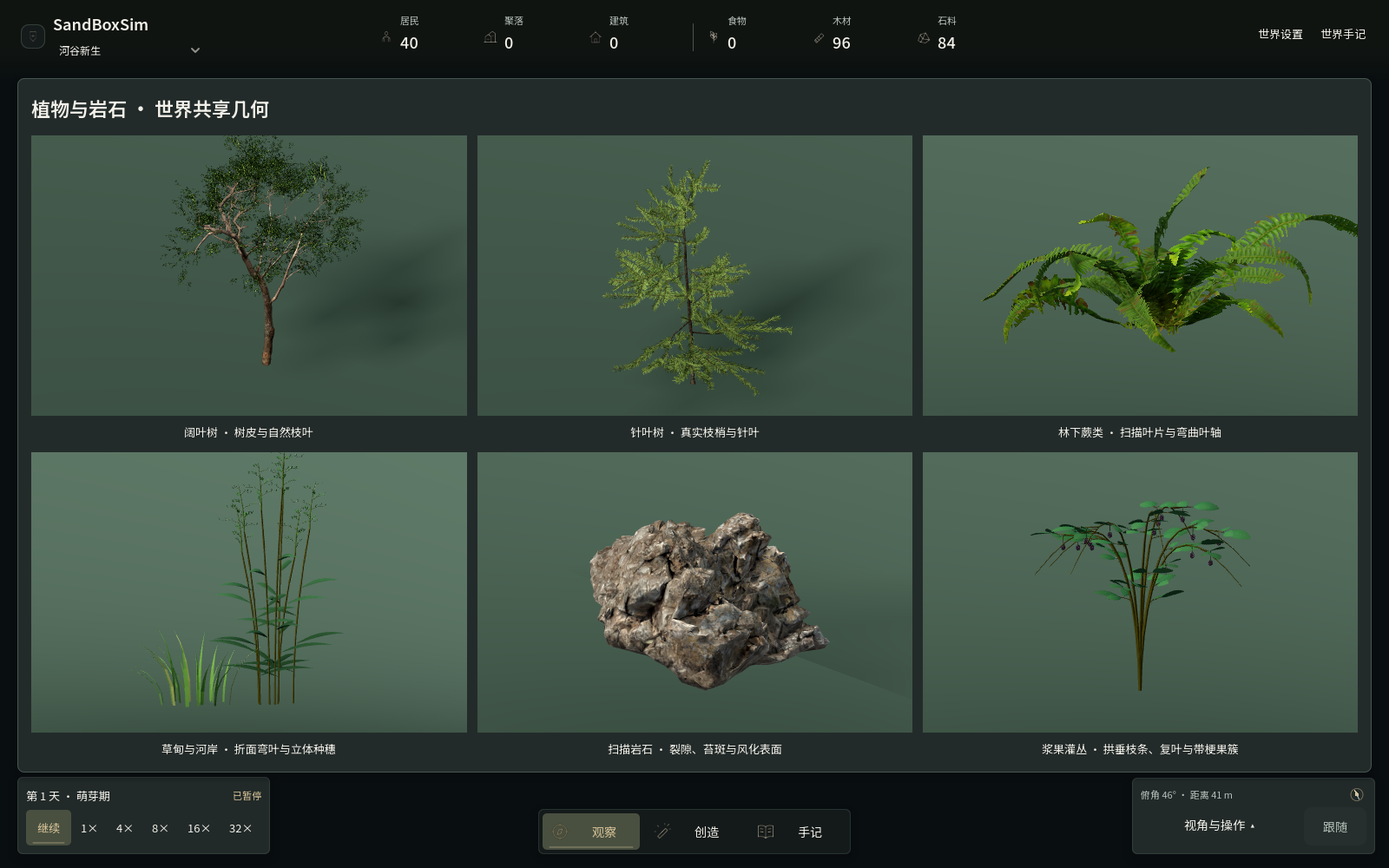
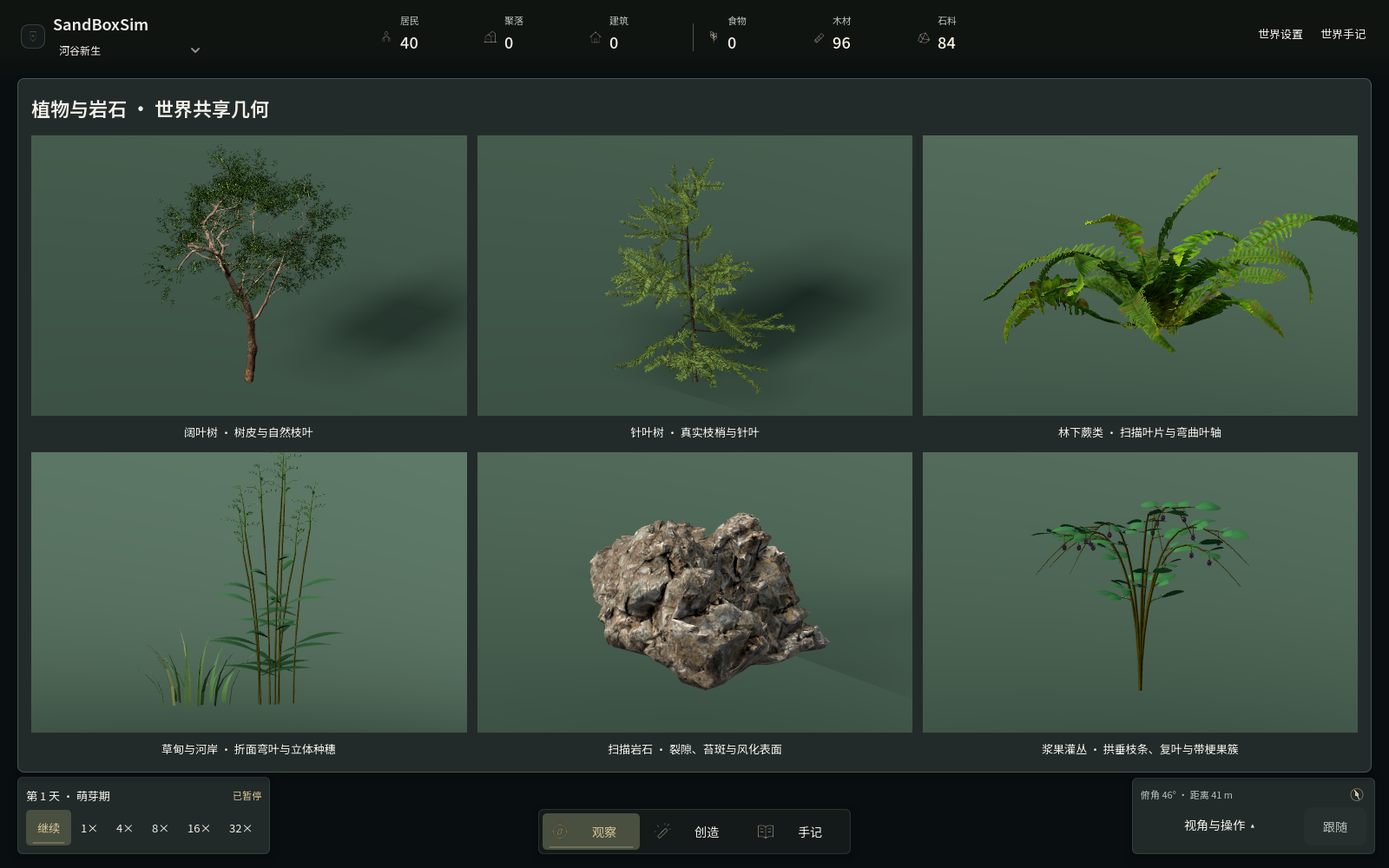
Align tree roots, ground stone clusters and target visible resources

diff --git a/src/SandBoxSim.Godot/WorldView3D.cs b/src/SandBoxSim.Godot/WorldView3D.cs
@@ -450,7 +450,7 @@ public partial class WorldView3D : MapView
         var quality=new Dictionary<string,object> { ["worldPresentationEnabled"]=WorldPresentationEnabled,["shadowMode"]=_sunlight.DirectionalShadowMode.ToString(),
             ["shadowDistance"]=_sunlight.DirectionalShadowMaxDistance,["shadowBias"]=_sunlight.ShadowBias,
             ["shadowNormalBias"]=_sunlight.ShadowNormalBias,["msaa"]=_viewport.Msaa3D.ToString(),
-            ["landscapeSurface"]="coverage-mosaic-v6",["habitatDetail"]="responsive-understory-v12",["vegetationSurface"]="engine-faced-v2",
+            ["landscapeSurface"]="coverage-mosaic-v6",["sceneryContact"]="rooted-resource-anchors-v1",["habitatDetail"]="responsive-understory-v12",["vegetationSurface"]="engine-faced-v2",
             ["architecture"]="inset-joinery-v13",["garmentMaterial"]="quiet-linen-v17",["upperArmFlex"]="stable-contour-v3",["shoulderSkin"]="reference-figure-v25",["shoulderMotion"]="source-clavicle-v11",["motionReference"]="cmu-143-30-v1",["shoulderSurface"]="authored-bind-surface-v3",["forearmSkin"]="continuous-elbow-v9",["sleeveFairing"]="rest-detail-v2",["workPose"]="raised-hammer-v1",["reachMotion"]="palm-trajectory-v2",["interface"]="resident-framing-memory-v28",["wildFlora"]="arched-bramble-v1",["fontProfile"]="noto-packaged-v1",["interfaceVisible"]=Game.InterfaceVisible,
             ["animalPresentation"]="articulated-paws-v12",["residentSurface"]="linear-skin-v9",["workEffort"]="arc-recovery-v4",["toolMotion"]="constraint-feedback-v4",["bodySupport"]="planted-sagittal-v1",["facialTiming"]="rested-phrase-blink-v2",["handSurface"]="anatomical-regions-v1",["handlingMotion"]="wholebody-motion-v7",["toolGeometry"]="forged-heads-v2",["cargoGeometry"]="bound-timber-v2",["equipmentAttachment"]="surface-holster-v2",["socialMotion"]="spatial-gesture-v6",["waterSurface"]="constrained-bank-v6",["wristContour"]="continuous-source-v2",
             ["hairline"]="framed-source-root-v2",["garmentFit"]="continuous-drape-v31",["reedPanicle"]="connected-axis-v1",["bodyPresentation"]="continuous-drape-v29",["bodyFrame"]="reference-contour-physique-v31",["neckContour"]="relaxed-neckline-v5",["faceContour"]="balanced-adult-v3",["forearmProfile"]="curvature-flow-v9",["residentLocomotion"]="ankle-offset-v4",["armSwing"]="elliptic-countermotion-v4",["motionStyle"]="spatial-power-flow-v2",["limbCoordination"]="hinge-carry-v4" };
@@ -498,7 +498,7 @@ public partial class WorldView3D : MapView
         }
         finally {world.Tiles[index]=original;CheckTerrain();}
         if(StateHash.ComputeDigest(Game.Sim)!=digest)throw new InvalidOperationException("Ground presentation validation changed simulation");
-        ValidateMeadowPresentation();ValidateVegetationContacts();
+        ValidateMeadowPresentation();ValidateVegetationContacts();ValidateScenerySupport();
         ValidateLogicalShoreline();
         GD.Print("GROUND_PRESENTATION_PASS: texture-only overlays, byte-precision wear and unchanged simulation");
     }
@@ -685,6 +685,7 @@ public partial class WorldView3D : MapView
     private void BuildNature()
     {
         _flowerBatches.Clear();
+        _groundedStones.Clear();_sceneResourceAnchors.Clear();
         using var profile=RenderProfile.Measure("BuildNature");
         var leaves = new List<Transform3D>(); var pines = new List<Transform3D>();
         var grass = new List<Transform3D>(); var ferns = new List<Transform3D>(); var rocks = new List<Transform3D>(); var ores = new List<Transform3D>(); var bushes = new List<Transform3D>(); var pebbles=new List<Transform3D>();var reeds=new List<Transform3D>();
@@ -702,7 +703,7 @@ public partial class WorldView3D : MapView
                 {
                     float px=p.X+MathF.Sin(h%791+i*2.41f)*.68f,pz=p.Z+MathF.Cos(h%613+i*1.87f)*.68f;
                     float scale=.10f+((h>>(i*3))%7)*.024f;
-                    pebbles.Add(NatureModels.Transform(new(px,GroundHeight(px,pz)+scale*.18f,pz),new(scale,scale*.65f,scale*1.3f),new(.1f,i*1.7f+h%13,.12f)));
+                    pebbles.Add(GroundedStone("pebble",new(px,0,pz),new(scale,scale*.65f,scale*1.3f),new(.1f,i*1.7f+h%13,.12f),.035f));
                 }
             }
             bool living=tile.BuildingId==0&&tile.Fire!=FireState.Burnt;
@@ -746,11 +747,18 @@ public partial class WorldView3D : MapView
                 float px=p.X+((h>>7)%101/100f-.5f)*1.35f,pz=p.Z+((h>>17)%101/100f-.5f)*1.35f;
                 var tree=NatureModels.Transform(new(px,GroundHeight(px,pz)-.045f,pz),Vector3.One*(.76f+(h%17)*.035f),new Vector3(0,h%17,0));
                 if(h%3==0)pines.Add(tree);else leaves.Add(tree);
+                RegisterSceneResource(x,y,ResourceKind.Wood,tree.Origin+Vector3.Up*(.85f*tree.Basis.Y.Length()));
             }
             if (tile.BuildingId==0&&tile.Terrain == TerrainKind.Mountain && h % 9 == 0)
-            { var t = NatureModels.Transform(p-Vector3.Up*.08f, new Vector3(1.6f, 1.2f, 1.7f) * size, new Vector3(0,h%7,0)); if (tile.Resource.Kind == ResourceKind.Iron) ores.Add(t); else rocks.Add(t); }
+            {
+                var t=GroundedStone("boulder",p,new Vector3(1.6f,1.2f,1.7f)*size,new(0,h%7,0),.045f);
+                if(tile.Resource.Kind==ResourceKind.Iron)ores.Add(t);else rocks.Add(t);
+                RegisterSceneResource(x,y,tile.Resource.Kind,t.Origin+Vector3.Up*.55f);
+                for(int fragment=0;fragment<2;fragment++){float a=h%31+fragment*2.4f;var q=p+new Vector3(MathF.Cos(a),0,MathF.Sin(a))*.85f;float r=.17f+fragment*.09f;
+                    pebbles.Add(GroundedStone("pebble",q,new(r,r*.7f,r*1.2f),new(.1f,a,.12f),.04f));}
+            }
             if (tile.BuildingId==0&&tile.Resource.Kind == ResourceKind.Food && tile.Resource.Amount > 5 && h % 17 == 0)
-                { bushes.Add(RootedPlant(p, new Vector3(.9f, .7f, .9f) * size,h%31)); }
+                { bushes.Add(RootedPlant(p, new Vector3(.9f, .7f, .9f) * size,h%31));RegisterSceneResource(x,y,ResourceKind.Food,p+Vector3.Up*.45f); }
         }
         if(_groundMapTexture!=null)_models.BindEnvironmentGround(_groundMapTexture,new Vector2(Game.Sim.World.Width,Game.Sim.World.Height));
         _models.Batch(_props,"pebble",6,pebbles,_models.RockSurface(false),28);
@@ -848,7 +856,7 @@ public partial class WorldView3D : MapView
             if(!visible)continue;
             Vector3 interestPoint=target;bool hasInterest=false;
             if(sim.Agents.HasTarget(slot)&&sim.World.IsInBounds(sim.Agents.TargetOf(slot)))
-            {var interest=sim.Agents.TargetOf(slot);interestPoint=PositionAt(interest.X,interest.Y);hasInterest=true;}
+            {var interest=sim.Agents.TargetOf(slot);interestPoint=SceneResourceFocus(interest.X,interest.Y,sim.Agents.ActionOf(slot));hasInterest=true;}
             if(sim.Actions.TryGetInteractionPartner(slot,out int partner))
             {
                 long identity=sim.Society.Identity(partner);
@@ -858,7 +866,7 @@ public partial class WorldView3D : MapView
             if(!Game.VisualPaused&&hasInterest&&new Vector2(direction.X,direction.Z).Length()<.035f&&sim.Agents.PhaseOf(slot)==ActionPhase.Executing)
             {
                 var facing=hasInterest?interestPoint-rendered:Vector3.Zero;
-                if(facing.LengthSquared()>.02f) node.Rotation=new(0,Mathf.LerpAngle(node.Rotation.Y,MathF.Atan2(facing.X,facing.Z)+MathF.PI,1-MathF.Exp(-delta*7)),0);
+                if(facing.X*facing.X+facing.Z*facing.Z>.002f) node.Rotation=new(0,Mathf.LerpAngle(node.Rotation.Y,MathF.Atan2(facing.X,facing.Z)+MathF.PI,1-MathF.Exp(-delta*7)),0);
             }
             float distanceSquared=cameraPosition.DistanceSquaredTo(rendered);
             // Keep position interpolation every frame; distant joint poses need fewer updates.

diff --git a/src/SandBoxSim.Godot/WorldView3D.ScenerySupport.cs b/src/SandBoxSim.Godot/WorldView3D.ScenerySupport.cs
@@ -1,0 +1,89 @@
+using System;
+using System.Collections.Generic;
+using Godot;
+using SandBoxSim.Core;
+using SandBoxSim.Core.Agents;
+using SandBoxSim.Core.Environment;
+
+namespace SandBoxSim.Client;
+
+public partial class WorldView3D
+{
+    private readonly List<(string Shape,Transform3D Placement,float Embed)> _groundedStones=new();
+    private readonly Dictionary<int,(ResourceKind Kind,Vector3 Point)> _sceneResourceAnchors=new();
+    private Transform3D GroundedStone(string shape,Vector3 point,Vector3 scale,Vector3 rotation,float embed)
+    {
+        var basis=Basis.FromEuler(rotation)*Basis.FromScale(scale);
+        float y=float.PositiveInfinity;
+        foreach(var sample in _models.StoneBase(shape))
+        {
+            var offset=basis*sample;
+            y=MathF.Min(y,GroundHeight(point.X+offset.X,point.Z+offset.Z)-offset.Y);
+        }
+        var placement=new Transform3D(basis,new(point.X,y-embed,point.Z));
+        _groundedStones.Add((shape,placement,embed));return placement;
+    }
+    private void RegisterSceneResource(int x,int y,ResourceKind kind,Vector3 point)
+    {
+        if(kind is not (ResourceKind.Wood or ResourceKind.Stone or ResourceKind.Iron or ResourceKind.Food))return;
+        var world=Game.Sim.World;
+        if(world.TileAt(x,y).Resource.Kind==kind)_sceneResourceAnchors[y*world.Width+x]=(kind,point);
+    }
+    private Vector3 SceneResourceFocus(int x,int y,ActionKind action)
+    {
+        var world=Game.Sim.World;int index=y*world.Width+x;
+        var expected=action switch {ActionKind.GatherWood=>ResourceKind.Wood,ActionKind.GatherStone=>ResourceKind.Stone,
+            ActionKind.GatherIron=>ResourceKind.Iron,ActionKind.GatherFood=>ResourceKind.Food,_=>ResourceKind.None};
+        if(_sceneResourceAnchors.TryGetValue(index,out var anchor)&&expected==anchor.Kind
+            &&world.Tiles[index].Resource.Kind==expected&&world.Tiles[index].Resource.Amount>0)return anchor.Point;
+        return PositionAt(x,y);
+    }
+    private void ValidateScenerySupport()
+    {
+        string digest=StateHash.ComputeDigest(Game.Sim);int contacts=0;
+        foreach(var item in _groundedStones)
+        {
+            float closest=float.NegativeInfinity;
+            foreach(var sample in _models.StoneBase(item.Shape))
+            {
+                var p=item.Placement*sample;float gap=p.Y-GroundHeight(p.X,p.Z);
+                if(!p.IsFinite()||gap>-item.Embed+.0001f)throw new InvalidOperationException("Placed stone base floats above terrain");
+                closest=MathF.Max(closest,gap);contacts++;
+            }
+            if(MathF.Abs(closest+item.Embed)>.0002f)throw new InvalidOperationException("Stone placement loses its measured surface contact");
+        }
+        int resources=0;
+        foreach(var item in _sceneResourceAnchors)
+        {
+            int x=item.Key%Game.Sim.World.Width,y=item.Key/Game.Sim.World.Width;
+            var action=item.Value.Kind switch {ResourceKind.Wood=>ActionKind.GatherWood,ResourceKind.Food=>ActionKind.GatherFood,
+                ResourceKind.Iron=>ActionKind.GatherIron,_=>ActionKind.GatherStone};
+            if(Game.Sim.World.Tiles[item.Key].Resource.Amount<=0)continue;
+            if(SceneResourceFocus(x,y,action)!=item.Value.Point||SceneResourceFocus(x,y,ActionKind.Drink)!=PositionAt(x,y))
+                throw new InvalidOperationException("Scene focus loses its resource type or redirects unrelated actions");
+            var original=Game.Sim.World.Tiles[item.Key];
+            try
+            {
+                Game.Sim.World.Tiles[item.Key].Resource.Amount=0;
+                if(SceneResourceFocus(x,y,action)!=PositionAt(x,y))throw new InvalidOperationException("Depleted scenery retains an active resource focus");
+            }
+            finally{Game.Sim.World.Tiles[item.Key]=original;}
+            resources++;
+        }
+        if(contacts==0||resources==0||StateHash.ComputeDigest(Game.Sim)!=digest)
+            throw new InvalidOperationException("Scenery checks have no actual contacts or change simulation");
+        var vertical=_models.Resident(17,false,JobType.None);var neutral=_models.Resident(17,false,JobType.None);
+        try
+        {
+            vertical.Attend(Vector3.Up);neutral.Attend(Vector3.Zero);
+            for(int i=0;i<60;i++)
+            {
+                vertical.PoseAction(1f/60,ActionKind.None,ActionPhase.Idle,false,0);
+                neutral.PoseAction(1f/60,ActionKind.None,ActionPhase.Idle,false,0);
+            }
+            if(vertical.Head.Transform!=neutral.Head.Transform)throw new InvalidOperationException("Pure vertical scenery focus invents a horizontal head turn");
+        }
+        finally{vertical.Free();neutral.Free();}
+        GD.Print($"SCENERY_SUPPORT_PASS: {contacts} actual base probes, terrain embed, {resources} typed resource anchors, depletion/fallback and unchanged simulation");
+    }
+}

diff --git a/src/SandBoxSim.Godot/NatureModels.ScannedEnvironment.cs b/src/SandBoxSim.Godot/NatureModels.ScannedEnvironment.cs
@@ -18,6 +18,7 @@ internal sealed partial class NatureModels
     };
     private Shader? _sourceVegetationShader;
     private readonly Dictionary<string,ShaderMaterial> _sourceVegetationMaterials=new();
+    private readonly Dictionary<string,int> _environmentRootSurfaces=new();
     private ShaderMaterial SourceVegetationMaterial(string asset,string name,float height)
     {
         string key=asset+":"+name;if(_sourceVegetationMaterials.TryGetValue(key,out var cached))return cached;
@@ -93,6 +94,24 @@ ALPHA=cutout?texture(alpha_map,tex_uv).r:1.0;ALPHA_SCISSOR_THRESHOLD=mix(.45,.18
         using var doc=JsonDocument.Parse(raw);var root=doc.RootElement;
         if(root.GetProperty("schemaVersion").GetInt32()!=1||root.GetProperty("source").GetProperty("license").GetString()!="CC0-1.0")throw new InvalidOperationException("Invalid environment source record");
         float[] Floats(JsonElement e){var a=new float[e.GetArrayLength()];int i=0;foreach(var v in e.EnumerateArray())a[i++]=v.GetSingle();return a;}
+        var origin=Vector3.Zero;
+        if(asset is "tree_small_02" or "fir_sapling")
+        {
+            int surfaceIndex=0;
+            foreach(var surface in root.GetProperty("surfaces").EnumerateArray())
+            {
+                string name=surface.GetProperty("material").GetString()!;
+                if(name.EndsWith(asset=="tree_small_02"?"_trunk":"_branches",StringComparison.Ordinal))
+                {
+                    var positions=Floats(surface.GetProperty("positions"));int bases=0;
+                    for(int i=0;i<positions.Length;i+=3)if(positions[i+1]<.15f)
+                    {origin+=new Vector3(positions[i],0,positions[i+2]);bases++;}
+                    if(bases<3)throw new InvalidOperationException("Missing authored tree base");
+                    origin/=bases;_environmentRootSurfaces[asset]=surfaceIndex;break;
+                }
+                surfaceIndex++;
+            }
+        }
         var result=new ArrayMesh();
         foreach(var surface in root.GetProperty("surfaces").EnumerateArray())
         {
@@ -104,7 +123,7 @@ ALPHA=cutout?texture(alpha_map,tex_uv).r:1.0;ALPHA_SCISSOR_THRESHOLD=mix(.45,.18
             foreach(var item in index.EnumerateArray())
             {
                 int v=item.GetInt32();if(v<0||v>=p.Length/3)throw new InvalidOperationException("Environment index out of range");
-                var point=new Vector3(p[v*3],p[v*3+1],p[v*3+2]);var normal=new Vector3(n[v*3],n[v*3+1],n[v*3+2]);
+                var point=new Vector3(p[v*3],p[v*3+1],p[v*3+2])-origin;var normal=new Vector3(n[v*3],n[v*3+1],n[v*3+2]);
                 if(!point.IsFinite()||!normal.IsFinite()||normal.LengthSquared()<.8f)throw new InvalidOperationException("Invalid environment geometry");
                 tool.SetNormal(normal.Normalized());tool.SetUV(new(t[v*2],t[v*2+1]));tool.AddVertex(point);
             }
@@ -130,6 +149,14 @@ ALPHA=cutout?texture(alpha_map,tex_uv).r:1.0;ALPHA_SCISSOR_THRESHOLD=mix(.45,.18
             }
             int vertexBudget=asset=="tree_small_02"?220000:asset=="fir_sapling"?190000:150000;
             if(count>vertexBudget||count<30)throw new InvalidOperationException("Source environment mesh is outside budget");
+            if(_environmentRootSurfaces.TryGetValue(asset,out int rootSurface))
+            {
+                var p=mesh.SurfaceGetArrays(rootSurface)[(int)Mesh.ArrayType.Vertex].AsVector3Array();
+                var centre=Vector3.Zero;int bases=0;
+                foreach(var v in p)if(v.Y<.15f){centre+=new Vector3(v.X,0,v.Z);bases++;}
+                if(bases<3||(centre/bases).Length()>.025f)throw new InvalidOperationException("Authored tree base is not centred on its scene anchor");
+                GD.Print($"TREE_ROOT_ANCHOR_PASS: {asset}, actual basal centre={(centre/bases).Length():F5} m; source topology, UV and normals retained");
+            }
         }
         GD.Print("ENVIRONMENT_SOURCES_PASS: six licensed meshes, source hashes, PBR/alpha resources, finite attributes, material/cache preservation and budgets");
     }

diff --git a/src/SandBoxSim.Godot/NatureModels.ScenerySupport.cs b/src/SandBoxSim.Godot/NatureModels.ScenerySupport.cs
@@ -1,0 +1,29 @@
+using System;
+using System.Collections.Generic;
+using Godot;
+
+namespace SandBoxSim.Client;
+
+internal sealed partial class NatureModels
+{
+    private readonly Dictionary<string,Vector3[]> _stoneBases=new();
+    internal Vector3[] StoneBase(string shape)
+    {
+        if(_stoneBases.TryGetValue(shape,out var cached))return cached;
+        var mesh=Shape(shape);float low=float.PositiveInfinity,high=float.NegativeInfinity;
+        var points=new List<Vector3>();
+        for(int s=0;s<mesh.GetSurfaceCount();s++)
+            foreach(var p in mesh.SurfaceGetArrays(s)[(int)Mesh.ArrayType.Vertex].AsVector3Array())
+            {points.Add(p);low=MathF.Min(low,p.Y);high=MathF.Max(high,p.Y);}
+        var bins=new Vector3[16];var radius=new float[16];Array.Fill(radius,-1);
+        foreach(var p in points)if(p.Y<=low+(high-low)*.20f)
+        {
+            int bin=Math.Min(15,(int)(Mathf.PosMod(MathF.Atan2(p.Z,p.X),Mathf.Tau)/Mathf.Tau*16));
+            float r=p.X*p.X+p.Z*p.Z;
+            if(r>radius[bin]){radius[bin]=r;bins[bin]=p;}
+        }
+        var result=new List<Vector3>();for(int i=0;i<16;i++)if(radius[i]>=0)result.Add(bins[i]);
+        if(result.Count<4)throw new InvalidOperationException("Insufficient actual stone base support");
+        return _stoneBases[shape]=result.ToArray();
+    }
+}

diff --git a/src/SandBoxSim.Godot/ResidentRig.cs b/src/SandBoxSim.Godot/ResidentRig.cs
@@ -49,7 +49,7 @@ internal partial class ResidentRig : Node3D
     private Vector2 _gaze;
     private float _socialBlend,_socialTime,_attentionYaw;
     private float _wantedAttention;
-    public void Attend(Vector3 localDirection) => _wantedAttention=localDirection.LengthSquared()>.001f?Math.Clamp(MathF.Atan2(-localDirection.X,-localDirection.Z),-.40f,.40f):0;
+    public void Attend(Vector3 localDirection) => _wantedAttention=localDirection.X*localDirection.X+localDirection.Z*localDirection.Z>.001f?Math.Clamp(MathF.Atan2(-localDirection.X,-localDirection.Z),-.40f,.40f):0;
     private Vector3 _returnPosition,_heldPosition;
     private Basis _returnBasis,_heldBasis;
     public void SetHeadDetail(bool detailed)

diff --git a/docs/guides/terrain-and-traces.md b/docs/guides/terrain-and-traces.md
@@ -74,9 +74,7 @@
 
 `FootTraffic` 是连续模拟值，贴图按 1/255 的显示精度更新；共享显示顶点与河岸插值不会增加模拟格子或改变通行规则。相同地表状态在不同 GPU 上可以有像素差异，核心摘要与存档状态仍按同版本规则比较。外部读取字段见 [在线接口](../development/online-efficiency.md)。
 
----
 
-[文档导航](../README.md) · [项目首页](../../README.md)
 
 ## 场景与角色的接触
 
@@ -98,3 +96,17 @@
 回归检查覆盖实际草丛外围根接地、建筑占用后的缓存失效与恢复、最近八个接触的选择、材质位置上传、失效接触清除，以及观察前后的模拟摘要一致。运行包自检同时检查人物和动物接地、岸线通路、建筑地基、存档与界面操作；这些检查不构成所有模型碰撞的物理保证。
 
 实现划分参考 [Godot 的导航网格说明](https://docs.godotengine.org/en/stable/tutorials/navigation/navigation_using_navigationmeshes.html)，其中明确区分导航数据与视觉／物理几何；地表层次参考 [Epic 的地形材质分层说明](https://dev.epicgames.com/documentation/en-us/unreal-engine/landscape-quick-start-guide-in-unreal-engine)。项目继续采用自己的格子模拟、Godot 渲染和已有授权扫描材质，没有引入 Unreal 运行时或新增素材下载。
+
+## 资源显示位置与采集朝向
+
+树干、矿石和食物灌丛按实际实例落点登记带资源类型的显示锚点。居民执行对应采集动作时，以该锚点调整身体朝向与注意方向；寻路目的地、采集量、库存和时间仍由内核格子与实体决定。资源耗尽、类型不符、显示物不存在，或动作不是对应采集动作时，回退到原逻辑格位置。自然物刷新与世界载入会重建登记表，避免沿用旧显示位置。
+
+朝向解算只使用水平距离。目标只有高度差时保持水平注意中性，避免对正上方／下方目标调用未定义的水平朝向而扭头。显示锚点用于观察与面向资源，不提供新的工具碰撞、伤害命中或所有树石的连续避让；原有角色与动物仍遵循内核通路和接地约束。
+
+`TREE_ROOT_ANCHOR_PASS` 检查实际渲染树根中心；`SCENERY_SUPPORT_PASS` 检查实际放置的底部探针、嵌入余量、资源类型／耗尽回退、纯高度注意方向和模拟摘要不变。公开场景 [world-scenery-contacts.json](../../benchmarks/scenarios/world-scenery-contacts.json) 预运行两日，观察已有活动、显示自然物及居民位置。
+
+![实际聚落与资源场景](../images/scene-resource-contacts.png)
+
+---
+
+[文档导航](../README.md) · [项目首页](../../README.md)

diff --git a/docs/development/environment-assets.md b/docs/development/environment-assets.md
@@ -87,3 +87,13 @@ $environmentBlender = './.tools/blender-4.5.14/editor/blender-4.5.14-windows-x64
 环境目录包含模型 JSON、清单、许可、原始贴图和相应 `.import` 描述。Godot 的 `.godot/` 导入缓存不提交。三个桌面导出预设包含 JSON 和 TXT；贴图通过资源导入进入发行包。普通运行不读取原始下载目录，模型与许可应随发行包保留。
 
 人物头脸的许可与转换独立记录在 [人物素材](human-assets.md)。动物、服装、建筑和地形几何仍包含项目程序网格；环境资产的更换不等同于引入完整写实人物、动物毛发或动作库。
+
+## 显示挂点与坡地放置
+
+`sceneryContact=rooted-resource-anchors-v1` 在读取已校验的树木来源数据后，以树干／主枝底部 0.15 米区域的顶点平均值校正水平原点，所有表面应用同一平移。原阔叶树的底部中心约偏离摆放原点 0.94 米，针叶树约 0.13 米；校正后实际渲染网格的底部中心接受 0.025 米容差检查。上游 JSON、输入哈希、面索引、UV、材质及法线保留，树的高度和自然弯曲不作重新雕刻。树干的显示落点现在与实例挂点一致，风摆仍围绕同一实例空间进行。
+
+世界中的普通山石和小碎石从实际共享网格的底部 20% 高度范围提取最多 16 个周向外缘支撑点。放置先应用各自旋转与非等比缩放，再按所有支撑点的真实地形高度确定下沉量，使这些底部点都嵌入地表，至少一个保持规定接触余量。普通碎石嵌入 0.035 米，山石周边碎片为 0.04 米，主要山石为 0.045 米；这也为原有最多约 0.024 米的压实显示下陷留出余量。主要山石周边增加两枚不同尺度碎片，复用原小石网格、材质和分块批次。
+
+这套支撑用于世界自然物的底部放置，特殊地点的组合模型仍沿用自己的构造。它不是逐三角面的物理碰撞；源网格上缘／侧面不参与新碰撞系统。地形更新重建自然物放置，地形拾取和接地继续使用同一三角曲面。
+
+原点与几何分开的处理依据见 [Blender 的物体原点说明](https://docs.blender.org/manual/en/latest/scene_layout/object/origin.html)；实例绘制与包围盒职责见 [Godot MultiMesh](https://docs.godotengine.org/en/stable/classes/class_multimesh.html)。运行时修正不引入新素材或外部工具依赖。

diff --git a/docs/images/README.md b/docs/images/README.md
@@ -147,3 +147,5 @@
 `resident-style-social.png`／GIF 来自当前 `visual-social`：上排为男女交谈，下排保留分享与进食，使用 `socialMotion=spatial-gesture-v6`。采样与上述动作演示一致：两次固定回放，逻辑帧 120–297 每三帧取样，1600×1000、60 个原生帧、20 fps、三秒；PNG 直接复制第 180 帧。当前步行、作业与交谈三组共六次回放，均核对来源、产物哈希、零窗口恢复和固定视觉步长。
 
 2026-11-05 的 `terrain-modern.png`／`terrain-closeup.png` 来自当前公开 `visual-landscape` 第 40／80 帧，`living-paths.png` 来自 `world-living-paths` 第 90 帧（80 名初始居民、预运行 14 日）。三张均为原生 1600×1000 直接复制，使用 `habitatDetail=responsive-understory-v12`，核对构建、源码、产物哈希、固定视觉步长和零窗口恢复；其他专题保留各自采样。近景图展示四候选混合草叶与实际人物、鹿狼；即时草叶弯折属于显示，长期小径仍来自真实模拟。
+
+当前 `terrain-modern.png`／`terrain-closeup.png` 使用 `visual-landscape` 第 40／80 帧，`ecology-detail.png` 使用 `visual-ecology-details` 第 90 帧；`scene-resource-contacts.png` 使用 `world-scenery-contacts` 第 90 帧（40 名初始居民、预运行两日）。四张均为原生 1600×1000 直接复制，使用 `sceneryContact=rooted-resource-anchors-v1`，核对源码／构建身份、产物哈希与零窗口恢复；较早的长期小径图保留其原采样。树木图册反映实际根部挂点，坡地接地与资源朝向仍按正文说明解释。

diff --git a/docs/development/benchmark.md b/docs/development/benchmark.md
@@ -289,3 +289,5 @@ Godot 自检包含协议拒绝测试、模型/握持几何和 UI 状态；Python
 `motionStyle=spatial-power-flow-v2`、`armSwing=elliptic-countermotion-v4`、`workEffort=arc-recovery-v4` 标识成人动作风格的肩肘跟随、躯干侧摆、手势回收及作业相位分配。风格不改变模拟生产效率，但会改变姿态、图像和每帧计算；比较视觉／效率结果须冻结这些标记、完整源码、身体与工具、状态、镜头及冷／热缓存条件。`MOTION_STYLE_PASS` 是相同身体和能力条件下的实际轨迹回归，不是 RSI 或审美评分。
 
 `habitatDetail=responsive-understory-v12` 增加四候选的林下层、矮阔叶及最近八角色的草叶接触场，改变顶点着色负载与自然物放置缓存身份。`VEGETATION_CONTACT_PASS` 验证接触选择、上传、清除与模拟观察纯度；放置检查验证实际根部占用及缓存恢复。视觉／效率比较须冻结草丛数量、镜头、角色分布、源码与冷／热缓存条件，不能将植被负载变化解释为内核加速或 RSI 改进。
+
+`sceneryContact=rooted-resource-anchors-v1` 改变树的水平挂点、坡地岩石放置、资源朝向与近景碎片数量，输入源码、像素和自然物冷构建成本均改变。`world-scenery-contacts` 提供两日预运行的实际场景；`TREE_ROOT_ANCHOR_PASS`／`SCENERY_SUPPORT_PASS` 是来源、接地、类型／耗尽回退及观察纯度检查，不是完整物理碰撞或 RSI 得分。比较效率须冻结场景、实例数量与冷／热缓存，不能直接沿用旧画面性能数字。

diff --git a/docs/development/models.md b/docs/development/models.md
@@ -984,3 +984,5 @@ $blender = '.tools/blender-4.5.14/editor/blender-4.5.14-windows-x64/blender.exe'
 空间与接续设计另参考[饮水动作中的关节及末端运动研究](https://pubmed.ncbi.nlm.nih.gov/38144196/)和[手臂运动平滑性的实验研究](https://elifesciences.org/articles/68013)。饮水研究观察到的差异随动作阶段变化，女性组的回手阶段并非更慢；项目采用任务相关的协调与有界美术弧线，未导入论文数据，也没有用同一速度倍率代表全部性别差异。
 
 场景地表使用 `habitatDetail=responsive-understory-v12`：共享草丛网格包含 20 片较高弯叶与 4 片矮阔叶，336 个三角形；每个适宜格最多四个候选，外围根部核对相邻地类与占用。人物与鹿狼的近景草叶接触场、占用缓存失效、接地和寻路的职责边界见[地形与场景接触](../guides/terrain-and-traces.md)。即时草叶反应是只读显示；长期压实继续来自内核。
+
+`sceneryContact=rooted-resource-anchors-v1` 以实际树干底部校正来源网格的水平挂点，普通山石／碎石按底部周向支撑嵌入坡地，主要山石周边复用两枚碎片组织尺度层次；带类型的资源显示锚点参与人物采集朝向。来源变换和几何边界见[环境素材](environment-assets.md)，交互语义见[地形与场景接触](../guides/terrain-and-traces.md)。
